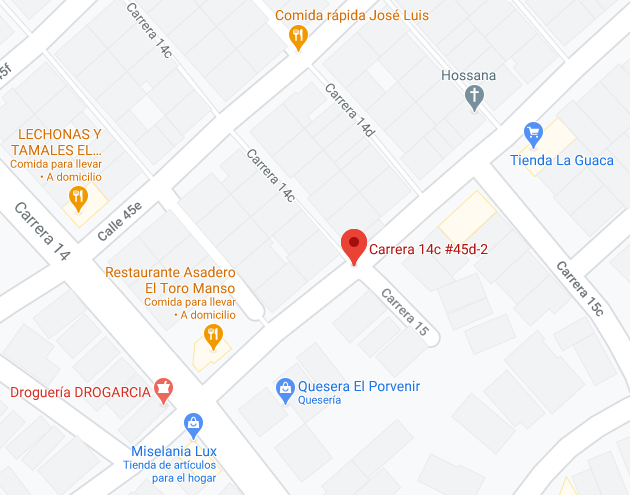
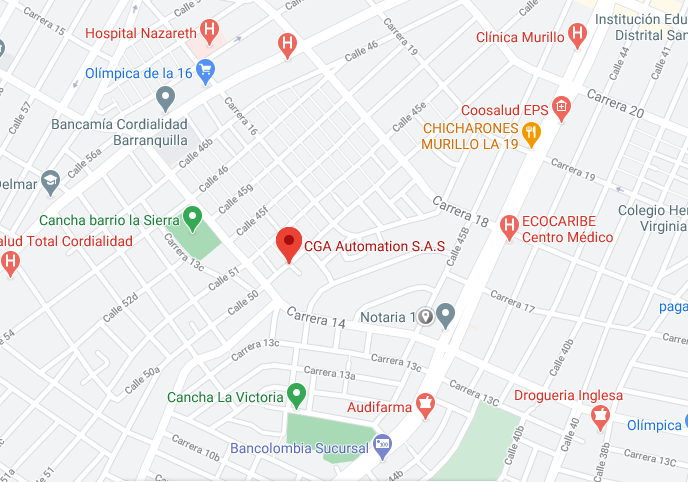
smartphone hero changed and update google map location

diff --git a/index.html b/index.html
@@ -245,17 +245,16 @@
               width="100%"
               height="auto"
             />
-            <iframe
-              class="d-none d-md-block"
-              src="https://www.google.com/maps/embed?pb=!1m18!1m12!1m3!1d1164.5597688214111!2d-74.80041963954636!3d10.956079849114946!2m3!1f0!2f0!3f0!3m2!1i1024!2i768!4f13.1!3m3!1m2!1s0x8ef42d4b2d8affa7%3A0xff1eb1fc859efc17!2sCra.%2014c%20%2345d-2%2C%20Barranquilla%2C%20Atl%C3%A1ntico%2C%20Colombia!5e0!3m2!1ses!2sve!4v1598072055872!5m2!1ses!2sve"
-              width="400"
-              height="300"
-              frameborder="0"
-              style="border: 0;"
-              allowfullscreen=""
-              aria-hidden="false"
-              tabindex="0"
-            ></iframe>
+            <iframe 
+            src="https://www.google.com/maps/embed?pb=!1m18!1m12!1m3!1d3917.0962114534395!2d-74.80229568597461!3d10.956104658849162!2m3!1f0!2f0!3f0!3m2!1i1024!2i768!4f13.1!3m3!1m2!1s0x8ef42d892ea87d87%3A0x9d457d68c363cc11!2sCGA%20Automation%20S.A.S!5e0!3m2!1ses!2sve!4v1599353484376!5m2!1ses!2sve" 
+            class="d-none d-md-block"
+            width="400" 
+            height="300" 
+            frameborder="0" 
+            style="border:0;" 
+            allowfullscreen="" 
+            aria-hidden="false" 
+            tabindex="0"></iframe>
           </div>
           <div class="row-2">
             <a href="#">

diff --git a/css/app.css b/css/app.css
@@ -15,7 +15,7 @@ img {
 }
 
 .carousel-img-sm {
-  width: 120vw;
+  width: 95vw;
   height: auto;
   overflow: hidden !important;
   object-fit: contain;
